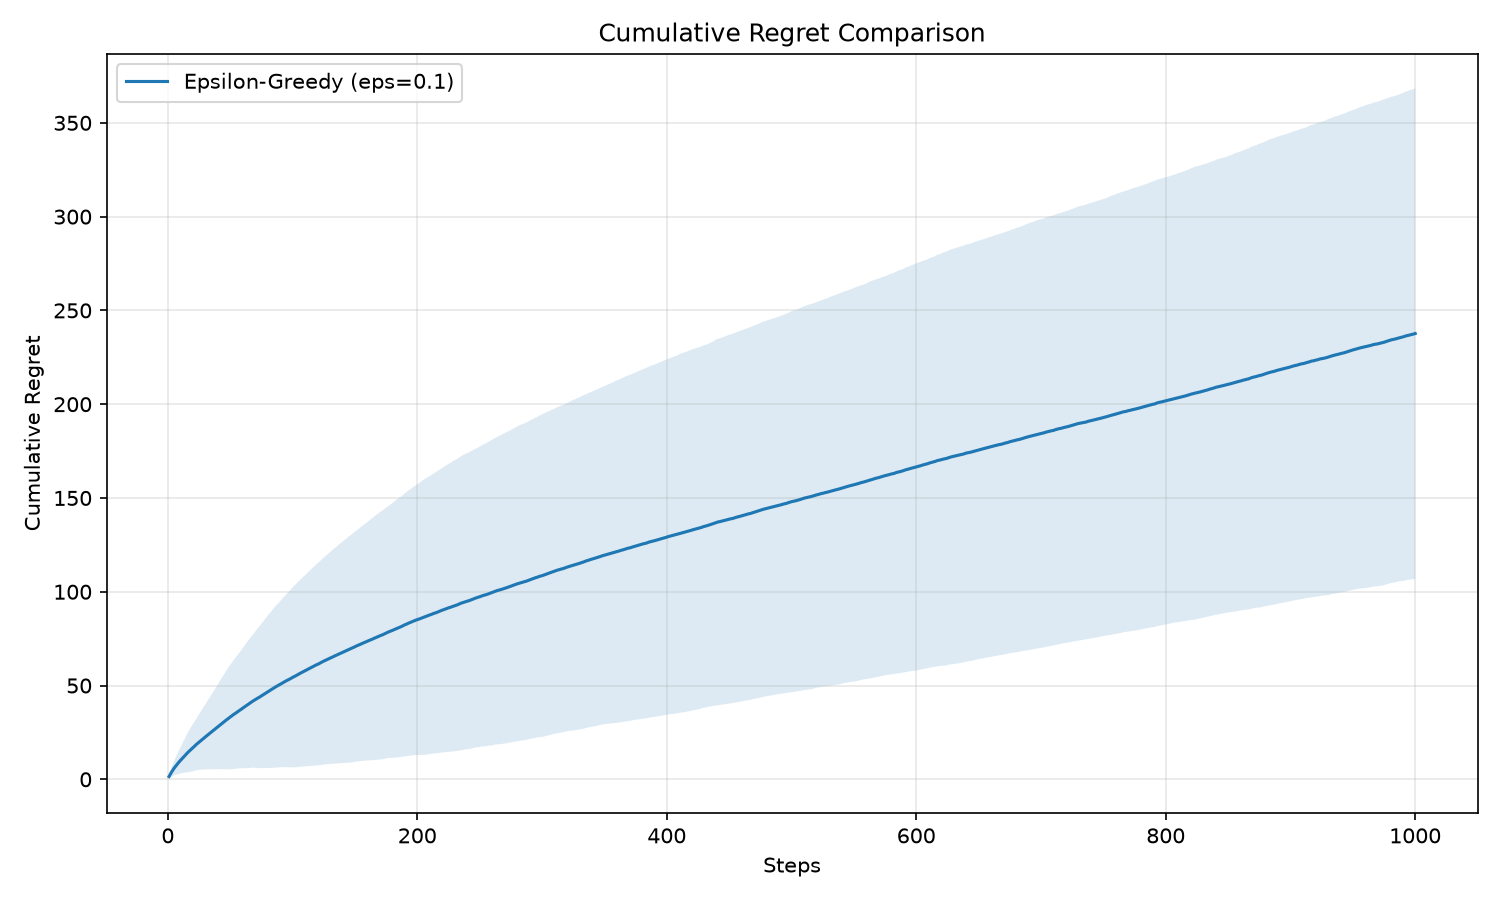
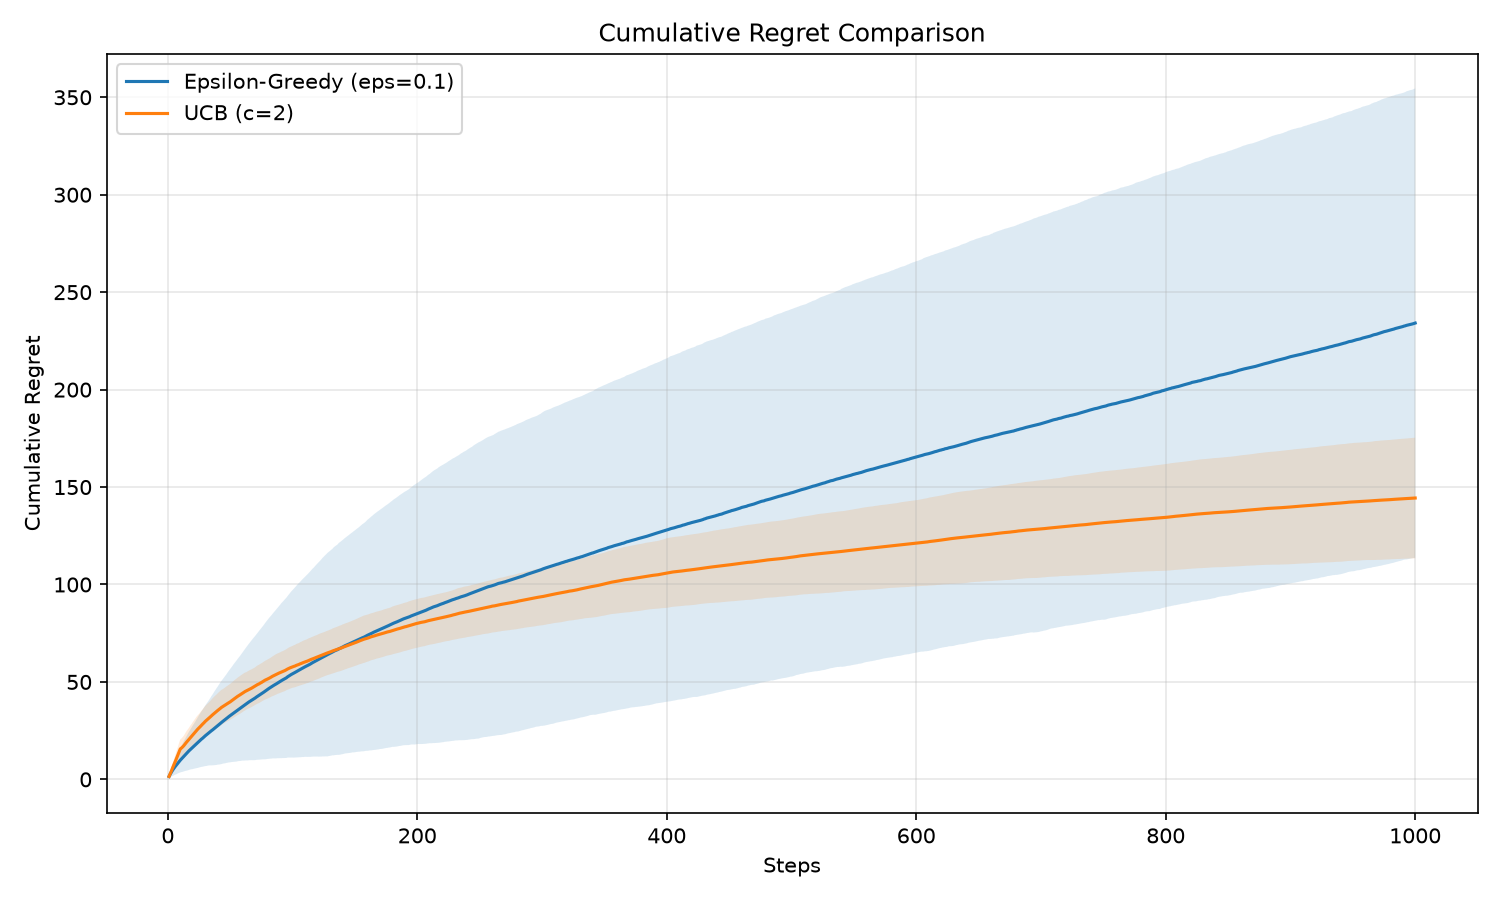
UCB - Solved

diff --git a/part1_bandits/UCB_test.py b/part1_bandits/UCB_test.py
@@ -1,0 +1,37 @@
+# part1_bandits/UCB_test.py
+# python -m part1_bandits.UCB_test
+
+import numpy as np
+from part1_bandits.bandits import UCB, BanditEnvironment
+
+def run_one_ucb_cycle():
+    np.random.seed(42)
+
+    k = 3
+    agent = UCB(k=k, c=2.0)
+    bandit = BanditEnvironment(k=k, seed=123)
+
+    print("True means:", bandit.true_means)
+    print("Optimal arm:", bandit.optimal_arm)
+    print()
+
+    for step in range(10):
+        print(f"Step {step}")
+
+        arm = agent.select_arm()
+        reward = bandit.pull(arm)
+
+        print("Selected arm:", arm)
+        print("Reward:", reward)
+
+        agent.update(arm, reward)
+
+        print("Counts:", agent.counts)
+        print("Q-values:", agent.q_values)
+        print("-" * 40)
+
+    print("Full cycle finished")
+
+
+if __name__ == "__main__":
+    run_one_ucb_cycle()

diff --git a/part1_bandits/bandits.py b/part1_bandits/bandits.py
@@ -101,13 +101,27 @@ class UCB:
     def select_arm(self):
         self.t += 1
         # TODO: implement UCB1 arm selection
+        
         # 1. If any arm has count 0, select it
+        for i in range(self.k):
+            if self.counts[i] == 0:
+                return i
+
         # 2. Otherwise, select arm with highest Q(a) + c * sqrt(ln(t) / N(a))
-        raise NotImplementedError("TODO: implement UCB1 arm selection")
+        ucb_v = self.q_values + self.c * np.sqrt(np.log(self.t) / self.counts)
+        
+        best_arm = 0
+        for i in range(1, self.k):
+            if ucb_v[i] > ucb_v[best_arm]:
+                best_arm = i
+                
+        return best_arm
 
     def update(self, arm, reward):
         # TODO: update counts and q_values (same incremental mean as EpsilonGreedy)
-        raise NotImplementedError("TODO: implement UCB1 update")
+        self.counts[arm] += 1
+        # Incremental mean update
+        self.q_values[arm] += (reward - self.q_values[arm]) / self.counts[arm]
 
 
 class ThompsonSampling:
@@ -277,13 +291,13 @@ if __name__ == "__main__":
 
     # --- UCB (TODO) ---
     # Uncomment the following once you have implemented the UCB class:
-    #
-    # print("Running UCB...")
-    # mean_reg, std_reg = run_multiple_experiments(
-    #     make_agent_fn=lambda k: UCB(k, c=2.0),
-    #     k=K, n_steps=N_STEPS, n_runs=N_RUNS
-    # )
-    # results["UCB (c=2)"] = (mean_reg, std_reg)
+    
+    print("Running UCB...")
+    mean_reg, std_reg = run_multiple_experiments(
+        make_agent_fn=lambda k: UCB(k, c=2.0),
+        k=K, n_steps=N_STEPS, n_runs=N_RUNS
+    )
+    results["UCB (c=2)"] = (mean_reg, std_reg)
 
     # --- Thompson Sampling (TODO) ---
     # Uncomment the following once you have implemented ThompsonSampling: